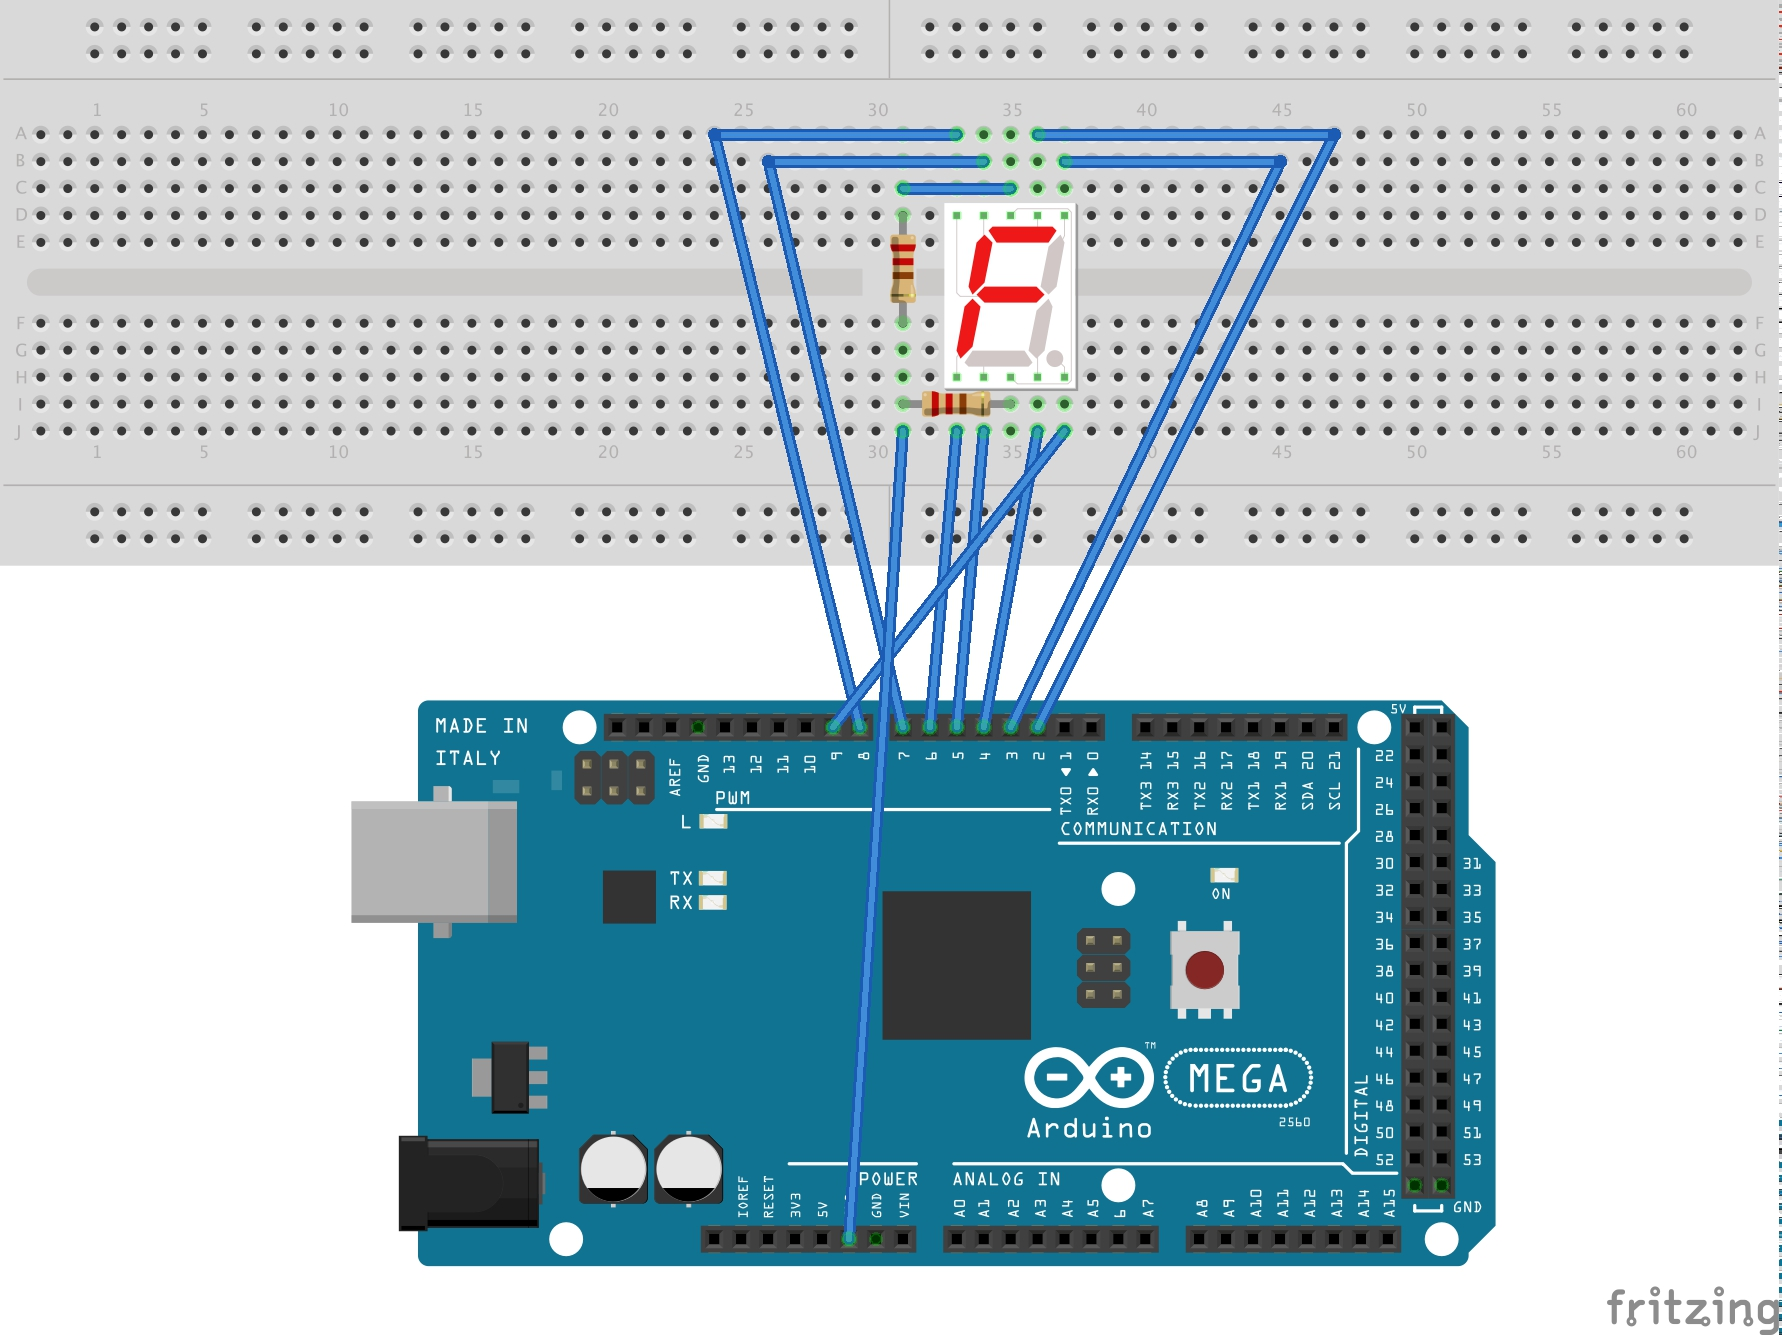
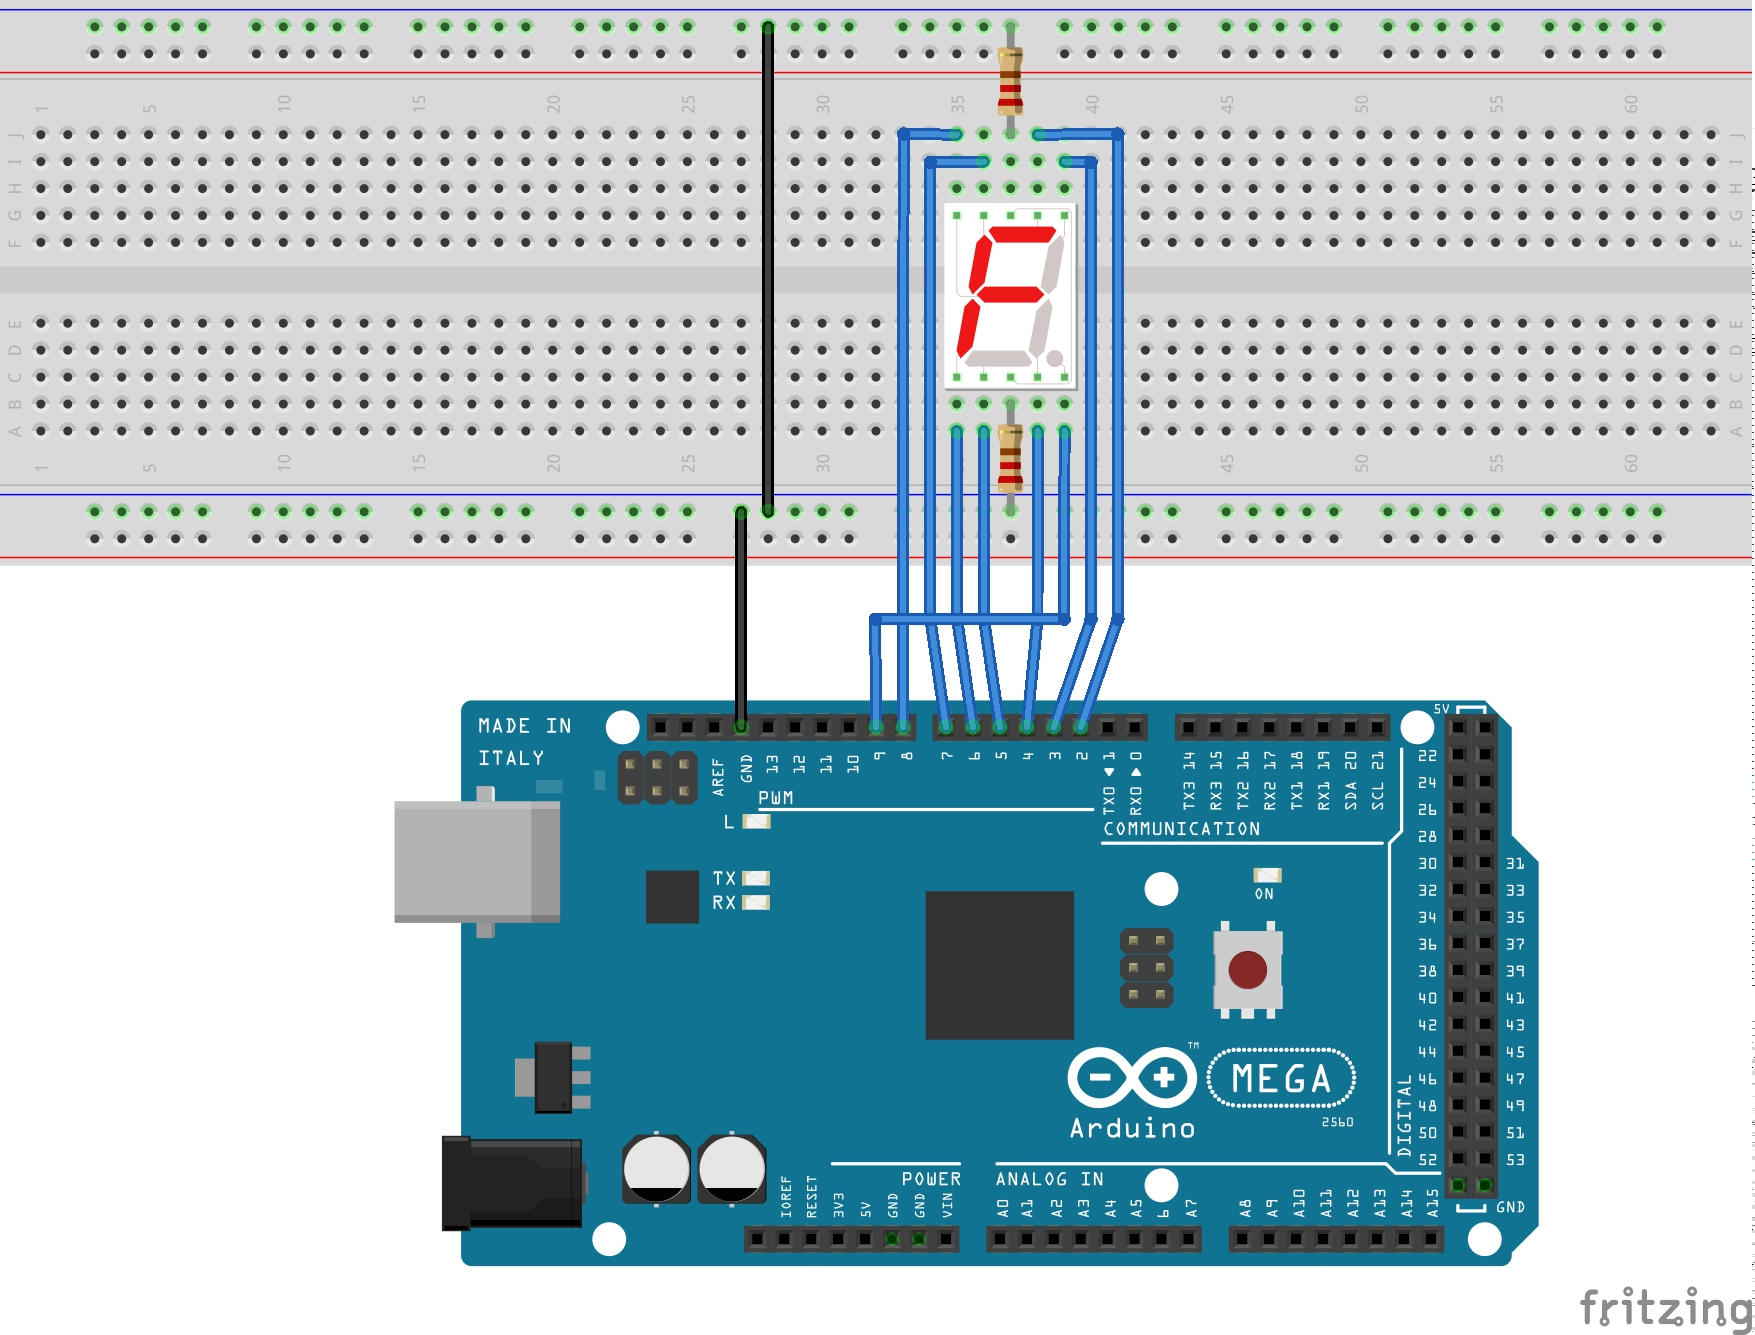
[Simple7SegmentDisplay] update schematics

diff --git a/playground/Simple7SegmentDisplay/README.md b/playground/Simple7SegmentDisplay/README.md
@@ -9,15 +9,6 @@ as current (brightness) will vary a little depending on how many LED strips are 
 way (and as recommended in other circuits I've seen) is to put a resistor on each pin. But this was
 good enough for a simple test.
 
-
-## Parts for a breadboard build
-
-* [Arduino Uno R3](http://www.amazon.com/gp/product/B00F6JCV20/ref=as_li_tl?ie=UTF8&camp=1789&creative=390957&creativeASIN=B00F6JCV20&linkCode=as2&tag=itsaprli-20&linkId=O34GVKFAZ6FVDC6W) or similar
-* Breadboard
-* 7-segment common cathode LED display (I used a unit similar to [SC56-11](./assets/SC56-11_datasheet.pdf?raw=true "SC56-11 Datasheet"))
-* 2 x 220R (or higher to reduce the display brightness)
-* ~10 jumper wires
-
 ### Construction
 
 ![The Breadboard](./assets/Simple7SegmentDisplay_bb.jpg?raw=true)
@@ -26,7 +17,15 @@ good enough for a simple test.
 
 ![The Build](./assets/Simple7SegmentDisplay.jpg?raw=true)
 
-## Credits and references
-* Original idea and source from http://www.hacktronics.com/Tutorials/arduino-and-7-segment-led.html
-* http://makezine.com/projects/drive-a-7-segment-led-with-an-arduino/
+### Parts
 
+* [Arduino Uno R3](http://www.amazon.com/gp/product/B00F6JCV20/ref=as_li_tl?ie=UTF8&camp=1789&creative=390957&creativeASIN=B00F6JCV20&linkCode=as2&tag=itsaprli-20&linkId=O34GVKFAZ6FVDC6W) or similar
+* Breadboard
+* 7-segment common cathode LED display (I used a unit similar to [SC56-11 Datasheet](./assets/SC56-11_datasheet.pdf?raw=true))
+* 2 x 220R (or higher to reduce the display brightness)
+* ~10 jumper wires
+
+## Credits and references
+* [Arduino and 7 Segment LED](http://www.hacktronics.com/Tutorials/arduino-and-7-segment-led.html) - original idea and source code
+* [Drive a 7-Segment LED with an Arduino](http://makezine.com/projects/drive-a-7-segment-led-with-an-arduino/)
+* [SC56-11 Datasheet](./assets/SC56-11_datasheet.pdf?raw=true)
